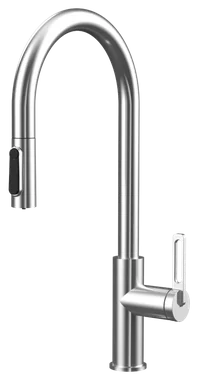
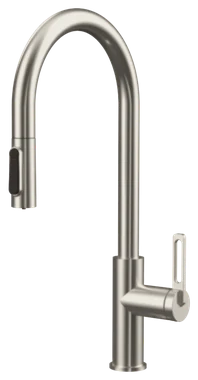
Brushed Nickel and Matte Black stand-ins for every faucet
The owner sells only two finishes now. cutout.py gains a brushed nickel recolour (and --prefix,
--only-recolour to recolour an existing cut-out); each product's own cut-out is the source for its
nickel and black stand-ins until real photos exist. New collection pictures, a nickel stand-in of the
faucet's studio photo, the menu and search pictures, and product copy that no longer names old colours.

Claude-Session: https://claude.ai/code/session_01LDJkmwizNHuWTRvBb3xDCx

Changed region(s): [[0.0606, 0.0289, 0.9697, 0.9842]]

diff --git a/farless-work/product-page/cutout.py b/farless-work/product-page/cutout.py
@@ -13,10 +13,12 @@ Options:
   --mask PATH          use a hand-fixed mask (white = product) instead of finding one; the first run
                        saves mask.png, so fix that in any editor and pass it back if an edge is wrong
   --floor ROW          treat everything below this pixel row as backdrop (drops floor reflections)
-  --recolour brass,copper,black
-                       also write stand-in finishes recoloured from this photo, named NAME-PREFIX-<finish>
-                       (tap-chrome -> tap-brass ...). Stand-ins are for previews only; real photos of
-                       each finish replace them before a product goes live.
+  --recolour nickel,black
+                       also write stand-in finishes recoloured from this photo, named PREFIX-<finish>
+                       (tap-chrome -> tap-nickel ...; known: nickel, black, brass, copper). Stand-ins stand
+                       in until real photos of each finish exist; the dark parts (a black hose) stay dark.
+  --prefix PREFIX      the start of the stand-ins' names (default: NAME without its last -word)
+  --only-recolour      write only the stand-ins, not the cut-out itself (to recolour an existing cut-out)
 
 Always look at the result on the dark page before using it: every photo is different, and
 manufacturer cut-outs (transparent PNGs) are better than any automatic cut when they exist.
@@ -33,6 +35,8 @@ HERE = Path(__file__).resolve().parent
 
 # gradient maps from the photo's brightness to each finish (dark -> light)
 FINISH_MAPS = {
+    # brushed nickel: a warm grey with soft, brushed reflections
+    'nickel': (1.4, [(0, '#121110'), (.16, '#2d2a27'), (.4, '#67625b'), (.6, '#958f86'), (.78, '#bab4aa'), (.92, '#d9d4cb'), (1, '#ece8e0')]),
     'brass': (0.8, [(0, '#1a1006'), (.18, '#3d2a12'), (.42, '#86642c'), (.62, '#b8924c'), (.8, '#dcbd7c'), (.93, '#f1dfab'), (1, '#fbf3d9')]),
     'copper': (0.8, [(0, '#170a06'), (.18, '#3b1c11'), (.42, '#7e4128'), (.62, '#b06c4c'), (.8, '#d69b7d'), (.93, '#ecc6b0'), (1, '#f9ebe1')]),
     'black': (3.0, [(0, '#0e0d0c'), (.3, '#181716'), (.55, '#252321'), (.75, '#3a3734'), (.9, '#615c57'), (1, '#9a948d')]),
@@ -114,6 +118,8 @@ def main():
     ap.add_argument('--floor', type=int)
     ap.add_argument('--recolour', default='')
     ap.add_argument('--pad', type=int, default=18)
+    ap.add_argument('--prefix')
+    ap.add_argument('--only-recolour', action='store_true')
     args = ap.parse_args()
 
     src = Image.open(args.photo)
@@ -130,7 +136,7 @@ def main():
     else:
         bgr = cv2.cvtColor(np.asarray(src.convert('RGB')), cv2.COLOR_RGB2BGR)
         M = cv2.imread(args.mask, 0) > 127 if args.mask else find_mask(bgr, args.floor)
-        if not args.mask:
+        if not args.mask and not args.only_recolour:
             cv2.imwrite(str(out / 'mask.png'), (M * 255).astype(np.uint8))
 
         im = cv2.cvtColor(bgr, cv2.COLOR_BGR2RGB).astype(np.float32) / 255
@@ -162,13 +168,14 @@ def main():
         Image.fromarray((rgba * 255 + .5).astype(np.uint8), 'RGBA').save(out / f'{name}.webp', quality=88, method=6)
         print('wrote', out / f'{name}.webp', f'{x1 - x0}x{y1 - y0}')
 
-    save(args.name, F)
+    if not args.only_recolour:
+        save(args.name, F)
     # the foot: the middle of the lowest solid rows, as a % of the cut-out's width
     rows = np.flatnonzero(M.any(1))
     base = M[max(rows[-1] - max(3, (rows[-1] - rows[0]) // 60), 0):rows[-1] + 1]
     fx = np.flatnonzero(base.any(0))
     print(f'foot at {((fx[0] + fx[-1]) / 2 - x0) / (x1 - x0) * 100:.1f}% of the width (shadow.x / Shadow position)')
-    prefix = args.name.rsplit('-', 1)[0] if '-' in args.name else args.name
+    prefix = args.prefix or (args.name.rsplit('-', 1)[0] if '-' in args.name else args.name)
     for fin in filter(None, args.recolour.split(',')):
         if fin not in FINISH_MAPS:
             raise SystemExit(f'no recolour map for {fin}; known: {", ".join(FINISH_MAPS)}')

diff --git a/farless-work/product-page/collection_image.py b/farless-work/product-page/collection_image.py
@@ -5,7 +5,8 @@ home page's collection card (3:2), so the card never crops a single cut-out.
   python3 farless-work/product-page/collection_image.py OUT.jpg HANDLE [HANDLE ...]
 
 Each HANDLE needs products/HANDLE.json (its first finish's image and shadow.x) and its cut-out in
-assets/HANDLE/.
+assets/HANDLE/. HANDLE@FINISH picks another finish by its key (faucet@black), so one product can stand
+in two finishes side by side.
 """
 import json
 import sys
@@ -31,9 +32,11 @@ def main():
     canvas = Image.fromarray(base.astype(np.uint8), 'RGB').convert('RGBA')
 
     pieces = []
-    for h in handles:
+    for spec in handles:
+        h, _, key = spec.partition('@')
         p = json.loads((HERE / 'products' / f'{h}.json').read_text())
-        im = Image.open(HERE / 'assets' / h / p['finishes'][0]['image']).convert('RGBA')
+        fin = next(f for f in p['finishes'] if f['key'] == key) if key else p['finishes'][0]
+        im = Image.open(HERE / 'assets' / h / fin['image']).convert('RGBA')
         pieces.append((im, p['shadow']['x'] / 100))
     tall = int(H * .5)
     floor = int(H * .77)
